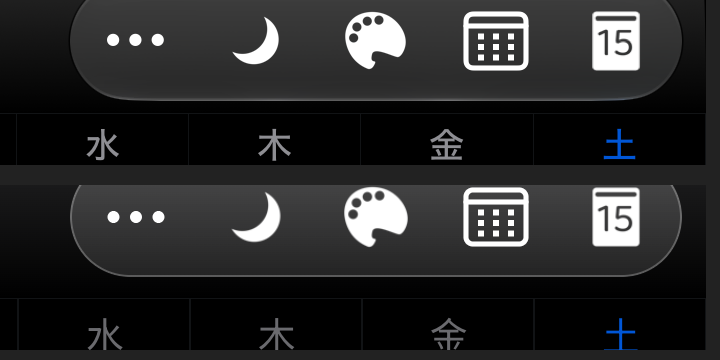
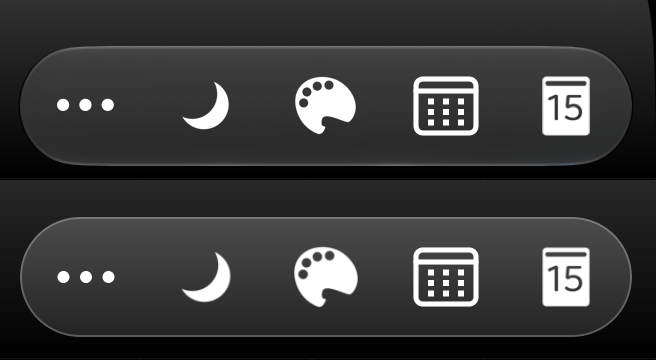
Update parity captures and document live toolbar blur

diff --git a/android-ios-comparison/index.html b/android-ios-comparison/index.html
@@ -1,1 +1,1 @@
-<!doctype html><html lang="ja"><meta charset="utf-8"><meta name="viewport" content="width=device-width,initial-scale=1"><title>iOS / Android 画面比較・作業中</title><style>body{font:16px system-ui;background:#e8e8e8;color:#222;max-width:1100px;margin:auto;padding:20px}.pair{display:flex;gap:16px}figure{margin:0;width:48%}img{width:100%;height:auto}section{margin-bottom:48px;border-top:1px solid #aaa}figcaption{padding:12px}.notice{padding:20px;background:#fff3cf;border-radius:12px}h2{font-size:22px}@media(max-width:600px){body{padding:10px}.pair{gap:6px}figcaption{padding:6px;font-size:13px}}</style><h1>iOS / Android 画面比較</h1><div class="notice">作業中・未完了。以前の資料のS06・S07には別画面が混ざっていました。該当画像を除外し、通常の画面遷移と画面固有の項目を確認して再撮影しました。画像が並ぶことは一致の証明ではありません。差異の実装と操作検証を継続しています。</div><p>2026-09-30 / iOS基準 2cd8426。画像をタップすると原寸を開きます。ローカルサーバーは使用しません。</p><section><h2>L03-save — 差異確認・修正中</h2><p>保存後の無効状態を撮影。共通18単位パス・線幅1.6・外形44に揃えました。背景と文字の差は継続確認。</p><div class="pair"><figure><figcaption>iOS 実画面</figcaption><a href="reference-ios-save59/8FB9BC8B-E6EF-4CA6-927A-5D8C493C1F6F.png"><img loading="lazy" src="reference-ios-save59/8FB9BC8B-E6EF-4CA6-927A-5D8C493C1F6F.png" alt="L03-save iOS 実画面"></a></figure><figure><figcaption>Android 修正中</figcaption><a href="iteration-58/android/L03-save.png"><img loading="lazy" src="iteration-58/android/L03-save.png" alt="L03-save Android 修正中"></a></figure></div></section><section><h2>L04-editor — 差異確認・修正中</h2><p>実際のイベント編集をプレビューに使用。iOSと同じ予定名を設定。モーダル内の余白などは検証中。</p><div class="pair"><figure><figcaption>iOS 実画面</figcaption><a href="reference-ios-gallery-complete/DC2E17E2-7C66-41A7-86CA-0893F56FCCF5.png"><img loading="lazy" src="reference-ios-gallery-complete/DC2E17E2-7C66-41A7-86CA-0893F56FCCF5.png" alt="L04-editor iOS 実画面"></a></figure><figure><figcaption>Android 修正中</figcaption><a href="iteration-60/android/L04-editor.png"><img loading="lazy" src="iteration-60/android/L04-editor.png" alt="L04-editor Android 修正中"></a></figure></div></section><section><h2>L04-drawer — 差異確認・修正中</h2><p>実際のルート画面をプレビューに使用。権限・ステータス表示の差あり。</p><div class="pair"><figure><figcaption>iOS 実画面</figcaption><a href="reference-ios-gallery-complete/345F08A9-8C00-4161-8A3B-997665505C88.png"><img loading="lazy" src="reference-ios-gallery-complete/345F08A9-8C00-4161-8A3B-997665505C88.png" alt="L04-drawer iOS 実画面"></a></figure><figure><figcaption>Android 修正中</figcaption><a href="iteration-60/android/L04-drawer.png"><img loading="lazy" src="iteration-60/android/L04-drawer.png" alt="L04-drawer Android 修正中"></a></figure></div></section><section><h2>L02-name — 差異確認・修正中</h2><p>画面の参照あり。見た目・操作の一致は検証継続中です。</p><div class="pair"><figure><figcaption>iOS 実画面</figcaption><a href="reference-ios-create-complete/5A9946B7-563B-4C65-B06F-087850030D1C.png"><img loading="lazy" src="reference-ios-create-complete/5A9946B7-563B-4C65-B06F-087850030D1C.png" alt="L02-name iOS 実画面"></a></figure><figure><figcaption>Android 修正中</figcaption><a href="iteration-58/android/L02-name.png"><img loading="lazy" src="iteration-58/android/L02-name.png" alt="L02-name Android 修正中"></a></figure></div></section><section><h2>S02-filled — 差異確認・修正中</h2><p>同じIrodoriを入力して再起動後の保持まで両OSで確認。余白の比較を継続。</p><div class="pair"><figure><figcaption>iOS 実画面</figcaption><a href="reference-ios-profile-filled/AF3456E5-132F-473E-8037-D850315C37AC.png"><img loading="lazy" src="reference-ios-profile-filled/AF3456E5-132F-473E-8037-D850315C37AC.png" alt="S02-filled iOS 実画面"></a></figure><figure><figcaption>Android 修正中</figcaption><a href="iteration-51/android/S02-filled.png"><img loading="lazy" src="iteration-51/android/S02-filled.png" alt="S02-filled Android 修正中"></a></figure></div></section><section><h2>L04-week — 差異確認・修正中</h2><p>同じサンプルで週表示を撮影。選択時刻や表示寸法の差を確認中。</p><div class="pair"><figure><figcaption>iOS 実画面</figcaption><a href="reference-ios-gallery-complete/156CF3BC-0DF3-4A36-BBDE-95F8732A51BA.png"><img loading="lazy" src="reference-ios-gallery-complete/156CF3BC-0DF3-4A36-BBDE-95F8732A51BA.png" alt="L04-week iOS 実画面"></a></figure><figure><figcaption>Android 修正中</figcaption><a href="iteration-60/android/L04-week.png"><img loading="lazy" src="iteration-60/android/L04-week.png" alt="L04-week Android 修正中"></a></figure></div></section><section><h2>L06-picker — 差異確認・修正中</h2><p>RGBA編集・タブ・保存色の保持と削除を確認。背景素材と色グリッドの差異は残っています。</p><div class="pair"><figure><figcaption>iOS 実画面</figcaption><a href="reference-ios-color-picker/99742BF1-0346-48B1-B677-E3847DA9B921.png"><img loading="lazy" src="reference-ios-color-picker/99742BF1-0346-48B1-B677-E3847DA9B921.png" alt="L06-picker iOS 実画面"></a></figure><figure><figcaption>Android 修正中</figcaption><a href="iteration-52/android/L06-picker.png"><img loading="lazy" src="iteration-52/android/L06-picker.png" alt="L06-picker Android 修正中"></a></figure></div></section><section><h2>L06-menu — 差異確認・修正中</h2><p>画面の参照あり。見た目・操作の一致は検証継続中です。</p><div class="pair"><figure><figcaption>iOS 実画面</figcaption><a href="reference-ios-color-picker/067381B5-0503-4259-9AA6-F5F8ACE20CFD.png"><img loading="lazy" src="reference-ios-color-picker/067381B5-0503-4259-9AA6-F5F8ACE20CFD.png" alt="L06-menu iOS 実画面"></a></figure><figure><figcaption>Android 修正中</figcaption><a href="iteration-58/android/L06-menu.png"><img loading="lazy" src="iteration-58/android/L06-menu.png" alt="L06-menu Android 修正中"></a></figure></div></section><section><h2>C01 — 差異確認・修正中</h2><p>右上の3点間隔とボタン群の左右2pt余白を修正。同倍率の拡大比較を下記に追加。</p><div class="pair"><figure><figcaption>iOS 実画面</figcaption><a href="reference-ios-validated-base/E7494986-EC92-43A1-976E-4A61E83EED48.png"><img loading="lazy" src="reference-ios-validated-base/E7494986-EC92-43A1-976E-4A61E83EED48.png" alt="C01 iOS 実画面"></a></figure><figure><figcaption>Android 修正中</figcaption><a href="iteration-58/android/C01.png"><img loading="lazy" src="iteration-58/android/C01.png" alt="C01 Android 修正中"></a></figure></div></section><section><h2>C02 — 差異確認・修正中</h2><p>画面の参照あり。見た目・操作の一致は検証継続中です。</p><div class="pair"><figure><figcaption>iOS 実画面</figcaption><a href="reference-ios-validated-base/B633D65A-37C7-4B26-A835-F9F67C199DAB.png"><img loading="lazy" src="reference-ios-validated-base/B633D65A-37C7-4B26-A835-F9F67C199DAB.png" alt="C02 iOS 実画面"></a></figure><figure><figcaption>Android 修正中</figcaption><a href="iteration-58/android/C02.png"><img loading="lazy" src="iteration-58/android/C02.png" alt="C02 Android 修正中"></a></figure></div></section><section><h2>C03 — 差異確認・修正中</h2><p>共有画像以外のアイコンはAndroid自作ベクターで、iOSと同一ではありません。線幅・配置・半円・調整記号を再修正。手・パレットなどの差異は未解消。</p><div class="pair"><figure><figcaption>iOS 実画面</figcaption><a href="reference-ios-menu/AEAD1331-6A1B-4B11-BE75-A2A32DCE4736.png"><img loading="lazy" src="reference-ios-menu/AEAD1331-6A1B-4B11-BE75-A2A32DCE4736.png" alt="C03 iOS 実画面"></a></figure><figure><figcaption>Android 修正中</figcaption><a href="iteration-60/android/C03.png"><img loading="lazy" src="iteration-60/android/C03.png" alt="C03 Android 修正中"></a></figure></div></section><section><h2>C04 — 比較未成立</h2><p>画面・状態を確認したiOS参照を準備中です。一致・対応済みとは判定していません。</p></section><section><h2>E01 — 差異確認・修正中</h2><p>画面の参照あり。見た目・操作の一致は検証継続中です。</p><div class="pair"><figure><figcaption>iOS 実画面</figcaption><a href="reference-ios-menu/F1B74FBF-4080-4008-85C0-B5E44A741A5E.png"><img loading="lazy" src="reference-ios-menu/F1B74FBF-4080-4008-85C0-B5E44A741A5E.png" alt="E01 iOS 実画面"></a></figure><figure><figcaption>Android 修正中</figcaption><a href="iteration-20/android/E01.png"><img loading="lazy" src="iteration-20/android/E01.png" alt="E01 Android 修正中"></a></figure></div></section><section><h2>E02 — 比較未成立</h2><p>画面・状態を確認したiOS参照を準備中です。一致・対応済みとは判定していません。</p></section><section><h2>S01 — 差異確認・修正中</h2><p>画面の参照あり。見た目・操作の一致は検証継続中です。</p><div class="pair"><figure><figcaption>iOS 実画面</figcaption><a href="reference-ios-validated-base/28C18C3E-C1D9-4E80-BF0F-89C1EBF0808E.png"><img loading="lazy" src="reference-ios-validated-base/28C18C3E-C1D9-4E80-BF0F-89C1EBF0808E.png" alt="S01 iOS 実画面"></a></figure><figure><figcaption>Android 修正中</figcaption><a href="iteration-20/android/S01.png"><img loading="lazy" src="iteration-20/android/S01.png" alt="S01 Android 修正中"></a></figure></div></section><section><h2>S02 — 差異確認・修正中</h2><p>入力欄・アイコン・間隔を修正。名前入力と再起動の操作確認を継続。</p><div class="pair"><figure><figcaption>iOS 実画面</figcaption><a href="reference-ios-validated-root/8248BD4A-939D-41C1-8445-692C9D6D066E.png"><img loading="lazy" src="reference-ios-validated-root/8248BD4A-939D-41C1-8445-692C9D6D066E.png" alt="S02 iOS 実画面"></a></figure><figure><figcaption>Android 修正中</figcaption><a href="iteration-20/android/S02.png"><img loading="lazy" src="iteration-20/android/S02.png" alt="S02 Android 修正中"></a></figure></div></section><section><h2>S03 — 差異確認・修正中</h2><p>画面の参照あり。見た目・操作の一致は検証継続中です。</p><div class="pair"><figure><figcaption>iOS 実画面</figcaption><a href="reference-ios-validated-root/C33BB4E4-EA7C-4CB1-8DD1-9D264D5FC420.png"><img loading="lazy" src="reference-ios-validated-root/C33BB4E4-EA7C-4CB1-8DD1-9D264D5FC420.png" alt="S03 iOS 実画面"></a></figure><figure><figcaption>Android 修正中</figcaption><a href="iteration-20/android/S03.png"><img loading="lazy" src="iteration-20/android/S03.png" alt="S03 Android 修正中"></a></figure></div></section><section><h2>S04 — 差異確認・修正中</h2><p>画面の参照あり。見た目・操作の一致は検証継続中です。</p><div class="pair"><figure><figcaption>iOS 実画面</figcaption><a href="reference-ios-validated-base/C49E4318-6B74-4E78-83A2-F7DE32502782.png"><img loading="lazy" src="reference-ios-validated-base/C49E4318-6B74-4E78-83A2-F7DE32502782.png" alt="S04 iOS 実画面"></a></figure><figure><figcaption>Android 修正中</figcaption><a href="iteration-20/android/S04.png"><img loading="lazy" src="iteration-20/android/S04.png" alt="S04 Android 修正中"></a></figure></div></section><section><h2>S05 — 差異確認・修正中</h2><p>画面の参照あり。見た目・操作の一致は検証継続中です。</p><div class="pair"><figure><figcaption>iOS 実画面</figcaption><a href="reference-ios-validated-settings/6D4022FE-2148-4CD7-A949-D66A906A8E15.png"><img loading="lazy" src="reference-ios-validated-settings/6D4022FE-2148-4CD7-A949-D66A906A8E15.png" alt="S05 iOS 実画面"></a></figure><figure><figcaption>Android 修正中</figcaption><a href="iteration-20/android/S05.png"><img loading="lazy" src="iteration-20/android/S05.png" alt="S05 Android 修正中"></a></figure></div></section><section><h2>S06 — 差異確認・修正中</h2><p>再撮影済み。Androidとカレンダーデータを揃える作業中。</p><div class="pair"><figure><figcaption>iOS 実画面</figcaption><a href="reference-ios-validated-settings/0BD6867A-0492-488D-B559-B6024141E5F3.png"><img loading="lazy" src="reference-ios-validated-settings/0BD6867A-0492-488D-B559-B6024141E5F3.png" alt="S06 iOS 実画面"></a></figure><figure><figcaption>Android 修正中</figcaption><a href="iteration-20/android/S06.png"><img loading="lazy" src="iteration-20/android/S06.png" alt="S06 Android 修正中"></a></figure></div></section><section><h2>S07 — 差異確認・修正中</h2><p>旧iOS参照は別画面のため無効。正しい詳細画面を再撮影済み。</p><div class="pair"><figure><figcaption>iOS 実画面</figcaption><a href="reference-ios-validated-settings/28F4C5D5-C586-423F-B24D-97EAF4D2C998.png"><img loading="lazy" src="reference-ios-validated-settings/28F4C5D5-C586-423F-B24D-97EAF4D2C998.png" alt="S07 iOS 実画面"></a></figure><figure><figcaption>Android 修正中</figcaption><a href="iteration-17/android/S07.png"><img loading="lazy" src="iteration-17/android/S07.png" alt="S07 Android 修正中"></a></figure></div></section><section><h2>S08 — 差異確認・修正中</h2><p>Androidの作成先は端末内カレンダー。入力・確認UIを修正中。</p><div class="pair"><figure><figcaption>iOS 実画面</figcaption><a href="reference-ios-validated-settings/FF59A480-3FA9-425D-9909-80669B5170ED.png"><img loading="lazy" src="reference-ios-validated-settings/FF59A480-3FA9-425D-9909-80669B5170ED.png" alt="S08 iOS 実画面"></a></figure><figure><figcaption>Android 修正中</figcaption><a href="iteration-20/android/S08.png"><img loading="lazy" src="iteration-20/android/S08.png" alt="S08 Android 修正中"></a></figure></div></section><section><h2>S09 — 差異確認・修正中</h2><p>再撮影済み。切替順UI・ドラッグの実装と比較を継続。</p><div class="pair"><figure><figcaption>iOS 実画面</figcaption><a href="reference-ios-validated-root/B51CD87D-065F-4FE9-B5D6-D6E6A410E6B8.png"><img loading="lazy" src="reference-ios-validated-root/B51CD87D-065F-4FE9-B5D6-D6E6A410E6B8.png" alt="S09 iOS 実画面"></a></figure><figure><figcaption>Android 修正中</figcaption><a href="iteration-20/android/S09.png"><img loading="lazy" src="iteration-20/android/S09.png" alt="S09 Android 修正中"></a></figure></div></section><section><h2>S10 — 差異確認・修正中</h2><p>再撮影済み。依存ライブラリはOSで異なる。ライセンス本文画面は未照合。</p><div class="pair"><figure><figcaption>iOS 実画面</figcaption><a href="reference-ios-validated-root/1A34D11C-4051-4E84-A1AC-EEBBFE2F837C.png"><img loading="lazy" src="reference-ios-validated-root/1A34D11C-4051-4E84-A1AC-EEBBFE2F837C.png" alt="S10 iOS 実画面"></a></figure><figure><figcaption>Android 修正中</figcaption><a href="iteration-20/android/S10.png"><img loading="lazy" src="iteration-20/android/S10.png" alt="S10 Android 修正中"></a></figure></div></section><section><h2>S11 — 比較未成立</h2><p>画面・状態を確認したiOS参照を準備中です。一致・対応済みとは判定していません。</p></section><section><h2>S12 — 差異確認・修正中</h2><p>再撮影済み。全幅表示へ修正。余白と遷移を検証中。</p><div class="pair"><figure><figcaption>iOS 実画面</figcaption><a href="reference-ios-validated-root/051B5BD8-42BE-4F89-BCFE-08F84D3B0BEB.png"><img loading="lazy" src="reference-ios-validated-root/051B5BD8-42BE-4F89-BCFE-08F84D3B0BEB.png" alt="S12 iOS 実画面"></a></figure><figure><figcaption>Android 修正中</figcaption><a href="iteration-20/android/S12.png"><img loading="lazy" src="iteration-20/android/S12.png" alt="S12 Android 修正中"></a></figure></div></section><section><h2>L01 — 差異確認・修正中</h2><p>画面の参照あり。見た目・操作の一致は検証継続中です。</p><div class="pair"><figure><figcaption>iOS 実画面</figcaption><a href="reference-ios-catalog63/93FEBB65-CF72-49F9-808F-B3402CC4A88F.png"><img loading="lazy" src="reference-ios-catalog63/93FEBB65-CF72-49F9-808F-B3402CC4A88F.png" alt="L01 iOS 実画面"></a></figure><figure><figcaption>Android 修正中</figcaption><a href="iteration-65/android/L01.png"><img loading="lazy" src="iteration-65/android/L01.png" alt="L01 Android 修正中"></a></figure></div></section><section><h2>L02 — 差異確認・修正中</h2><p>新規作成を設定・プレビュー・名前・作成の順へ変更。実操作で作成後の保存エディタ移行を確認。</p><div class="pair"><figure><figcaption>iOS 実画面</figcaption><a href="reference-ios-create-complete/D7896DA2-05A0-4FF6-9F51-9D6A1F669D60.png"><img loading="lazy" src="reference-ios-create-complete/D7896DA2-05A0-4FF6-9F51-9D6A1F669D60.png" alt="L02 iOS 実画面"></a></figure><figure><figcaption>Android 修正中</figcaption><a href="iteration-58/android/L02.png"><img loading="lazy" src="iteration-58/android/L02.png" alt="L02 Android 修正中"></a></figure></div></section><section><h2>L03 — 差異確認・修正中</h2><p>画面の参照あり。見た目・操作の一致は検証継続中です。</p><div class="pair"><figure><figcaption>iOS 実画面</figcaption><a href="reference-ios-layout/734B3630-D23E-43AE-9F06-0D9DD6C88AA1.png"><img loading="lazy" src="reference-ios-layout/734B3630-D23E-43AE-9F06-0D9DD6C88AA1.png" alt="L03 iOS 実画面"></a></figure><figure><figcaption>Android 修正中</figcaption><a href="iteration-12/android/L03.png"><img loading="lazy" src="iteration-12/android/L03.png" alt="L03 Android 修正中"></a></figure></div></section><section><h2>L04 — 差異確認・修正中</h2><p>同じトランジションサンプルで再撮影。4ページの横スワイプを確認。余白・ステータス表示は差が残っています。</p><div class="pair"><figure><figcaption>iOS 実画面</figcaption><a href="reference-ios-gallery-complete/6A556226-838C-4247-BFC6-6CE07F647084.png"><img loading="lazy" src="reference-ios-gallery-complete/6A556226-838C-4247-BFC6-6CE07F647084.png" alt="L04 iOS 実画面"></a></figure><figure><figcaption>Android 修正中</figcaption><a href="iteration-60/android/L04.png"><img loading="lazy" src="iteration-60/android/L04.png" alt="L04 Android 修正中"></a></figure></div></section><section><h2>L05 — 差異確認・修正中</h2><p>画面の参照あり。見た目・操作の一致は検証継続中です。</p><div class="pair"><figure><figcaption>iOS 実画面</figcaption><a href="reference-ios-layout/F84DC1DC-4BF5-4682-AF2F-55D18E9CEBA4.png"><img loading="lazy" src="reference-ios-layout/F84DC1DC-4BF5-4682-AF2F-55D18E9CEBA4.png" alt="L05 iOS 実画面"></a></figure><figure><figcaption>Android 修正中</figcaption><a href="iteration-12/android/L05.png"><img loading="lazy" src="iteration-12/android/L05.png" alt="L05 Android 修正中"></a></figure></div></section><section><h2>L06 — 差異確認・修正中</h2><p>画面の参照あり。見た目・操作の一致は検証継続中です。</p><div class="pair"><figure><figcaption>iOS 実画面</figcaption><a href="reference-ios-color-picker/E1C9AAF8-4C40-443D-BDA3-351968089142.png"><img loading="lazy" src="reference-ios-color-picker/E1C9AAF8-4C40-443D-BDA3-351968089142.png" alt="L06 iOS 実画面"></a></figure><figure><figcaption>Android 修正中</figcaption><a href="iteration-58/android/L06.png"><img loading="lazy" src="iteration-58/android/L06.png" alt="L06 Android 修正中"></a></figure></div></section><section><h2>L07 — 差異確認・修正中</h2><p>画面の参照あり。見た目・操作の一致は検証継続中です。</p><div class="pair"><figure><figcaption>iOS 実画面</figcaption><a href="reference-ios-layout/8F089573-D2B9-4F90-BCEF-507507195352.png"><img loading="lazy" src="reference-ios-layout/8F089573-D2B9-4F90-BCEF-507507195352.png" alt="L07 iOS 実画面"></a></figure><figure><figcaption>Android 修正中</figcaption><a href="iteration-12/android/L07.png"><img loading="lazy" src="iteration-12/android/L07.png" alt="L07 Android 修正中"></a></figure></div></section><section><h2>I01 — 差異確認・修正中</h2><p>画面の参照あり。見た目・操作の一致は検証継続中です。</p><div class="pair"><figure><figcaption>iOS 実画面</figcaption><a href="reference-ios-layout/14E70FF7-A801-4730-B8D4-47193CA5B8F8.png"><img loading="lazy" src="reference-ios-layout/14E70FF7-A801-4730-B8D4-47193CA5B8F8.png" alt="I01 iOS 実画面"></a></figure><figure><figcaption>Android 修正中</figcaption><a href="iteration-12/android/I01.png"><img loading="lazy" src="iteration-12/android/I01.png" alt="I01 Android 修正中"></a></figure></div></section><section><h2>I02 — 差異確認・修正中</h2><p>画面の参照あり。見た目・操作の一致は検証継続中です。</p><div class="pair"><figure><figcaption>iOS 実画面</figcaption><a href="reference-ios-list/70B33A24-A254-4538-9E49-86DC48DC940E.png"><img loading="lazy" src="reference-ios-list/70B33A24-A254-4538-9E49-86DC48DC940E.png" alt="I02 iOS 実画面"></a></figure><figure><figcaption>Android 修正中</figcaption><a href="iteration-12/android/I02.png"><img loading="lazy" src="iteration-12/android/I02.png" alt="I02 Android 修正中"></a></figure></div></section><section><h2>I03 — 差異確認・修正中</h2><p>画面の参照あり。見た目・操作の一致は検証継続中です。</p><div class="pair"><figure><figcaption>iOS 実画面</figcaption><a href="reference-ios-list/7D199B90-9351-4AAD-9F41-23308968D58E.png"><img loading="lazy" src="reference-ios-list/7D199B90-9351-4AAD-9F41-23308968D58E.png" alt="I03 iOS 実画面"></a></figure><figure><figcaption>Android 修正中</figcaption><a href="iteration-12/android/I03.png"><img loading="lazy" src="iteration-12/android/I03.png" alt="I03 Android 修正中"></a></figure></div></section><section><h2>I04 — 差異確認・修正中</h2><p>画面の参照あり。見た目・操作の一致は検証継続中です。</p><div class="pair"><figure><figcaption>iOS 実画面</figcaption><a href="reference-ios-list/272D0FDE-C62C-4BA6-B449-F864126E1B69.png"><img loading="lazy" src="reference-ios-list/272D0FDE-C62C-4BA6-B449-F864126E1B69.png" alt="I04 iOS 実画面"></a></figure><figure><figcaption>Android 修正中</figcaption><a href="iteration-12/android/I04.png"><img loading="lazy" src="iteration-12/android/I04.png" alt="I04 Android 修正中"></a></figure></div></section><section><h2>I05 — 比較未成立</h2><p>画面・状態を確認したiOS参照を準備中です。一致・対応済みとは判定していません。</p></section><section><h2>アイコン拡大比較</h2><p>各画像の上段がiOS、下段がAndroid。同じ1206px幅のキャプチャーから同じ範囲を切り出し。背景素材の差は未解消です。</p><img src="icon-details/ellipsis.png" alt="右上3点の比較"><img src="icon-details/save.png" alt="保存ボタンの比較"></section></html>
+<!doctype html><html lang="ja"><meta charset="utf-8"><meta name="viewport" content="width=device-width,initial-scale=1"><title>iOS / Android 画面比較・作業中</title><style>body{font:16px system-ui;background:#e8e8e8;color:#222;max-width:1100px;margin:auto;padding:20px}.pair{display:flex;gap:16px}figure{margin:0;width:48%}img{width:100%;height:auto}section{margin-bottom:48px;border-top:1px solid #aaa}figcaption{padding:12px}.notice{padding:20px;background:#fff3cf;border-radius:12px}h2{font-size:22px}@media(max-width:600px){body{padding:10px}.pair{gap:6px}figcaption{padding:6px;font-size:13px}}</style><h1>iOS / Android 画面比較</h1><div class="notice">作業中・未完了。以前の資料のS06・S07には別画面が混ざっていました。該当画像を除外し、通常の画面遷移と画面固有の項目を確認して再撮影しました。画像が並ぶことは一致の証明ではありません。差異の実装と操作検証を継続しています。</div><p>2026-09-30 / iOS基準 2cd8426。画像をタップすると原寸を開きます。ローカルサーバーは使用しません。</p><section><h2>C04-menu — 差異確認・修正中</h2><p>幅224・行高48・アイコン22・間隔14とキャンセル行を反映。メニュー行からのドラッグは未対応、背景素材も差が残る。</p><div class="pair"><figure><figcaption>iOS 実画面</figcaption><a href="reference-ios-event70/7744FB51-8D34-4FBC-8FF2-E82A3FC3935C.png"><img loading="lazy" src="reference-ios-event70/7744FB51-8D34-4FBC-8FF2-E82A3FC3935C.png" alt="C04-menu iOS 実画面"></a></figure><figure><figcaption>Android 修正中</figcaption><a href="iteration-77/android/C04-menu.png"><img loading="lazy" src="iteration-77/android/C04-menu.png" alt="C04-menu Android 修正中"></a></figure></div></section><section><h2>L03-save — 差異確認・修正中</h2><p>保存後の無効状態を撮影。共通18単位パス・線幅1.6・外形44に揃えました。背景と文字の差は継続確認。</p><div class="pair"><figure><figcaption>iOS 実画面</figcaption><a href="reference-ios-save59/8FB9BC8B-E6EF-4CA6-927A-5D8C493C1F6F.png"><img loading="lazy" src="reference-ios-save59/8FB9BC8B-E6EF-4CA6-927A-5D8C493C1F6F.png" alt="L03-save iOS 実画面"></a></figure><figure><figcaption>Android 修正中</figcaption><a href="iteration-74/android/L03-save.png"><img loading="lazy" src="iteration-74/android/L03-save.png" alt="L03-save Android 修正中"></a></figure></div></section><section><h2>L04-editor — 差異確認・修正中</h2><p>実際のイベント編集をプレビューに使用。iOSと同じ予定名を設定。モーダル内の余白などは検証中。</p><div class="pair"><figure><figcaption>iOS 実画面</figcaption><a href="reference-ios-gallery-complete/DC2E17E2-7C66-41A7-86CA-0893F56FCCF5.png"><img loading="lazy" src="reference-ios-gallery-complete/DC2E17E2-7C66-41A7-86CA-0893F56FCCF5.png" alt="L04-editor iOS 実画面"></a></figure><figure><figcaption>Android 修正中</figcaption><a href="iteration-60/android/L04-editor.png"><img loading="lazy" src="iteration-60/android/L04-editor.png" alt="L04-editor Android 修正中"></a></figure></div></section><section><h2>L04-drawer — 差異確認・修正中</h2><p>実際のルート画面をプレビューに使用。権限・ステータス表示の差あり。</p><div class="pair"><figure><figcaption>iOS 実画面</figcaption><a href="reference-ios-gallery-complete/345F08A9-8C00-4161-8A3B-997665505C88.png"><img loading="lazy" src="reference-ios-gallery-complete/345F08A9-8C00-4161-8A3B-997665505C88.png" alt="L04-drawer iOS 実画面"></a></figure><figure><figcaption>Android 修正中</figcaption><a href="iteration-60/android/L04-drawer.png"><img loading="lazy" src="iteration-60/android/L04-drawer.png" alt="L04-drawer Android 修正中"></a></figure></div></section><section><h2>L02-name — 差異確認・修正中</h2><p>画面の参照あり。見た目・操作の一致は検証継続中です。</p><div class="pair"><figure><figcaption>iOS 実画面</figcaption><a href="reference-ios-create-complete/5A9946B7-563B-4C65-B06F-087850030D1C.png"><img loading="lazy" src="reference-ios-create-complete/5A9946B7-563B-4C65-B06F-087850030D1C.png" alt="L02-name iOS 実画面"></a></figure><figure><figcaption>Android 修正中</figcaption><a href="iteration-74/android/L02-name.png"><img loading="lazy" src="iteration-74/android/L02-name.png" alt="L02-name Android 修正中"></a></figure></div></section><section><h2>S02-filled — 差異確認・修正中</h2><p>同じIrodoriを入力して再起動後の保持まで両OSで確認。余白の比較を継続。</p><div class="pair"><figure><figcaption>iOS 実画面</figcaption><a href="reference-ios-profile-filled/AF3456E5-132F-473E-8037-D850315C37AC.png"><img loading="lazy" src="reference-ios-profile-filled/AF3456E5-132F-473E-8037-D850315C37AC.png" alt="S02-filled iOS 実画面"></a></figure><figure><figcaption>Android 修正中</figcaption><a href="iteration-51/android/S02-filled.png"><img loading="lazy" src="iteration-51/android/S02-filled.png" alt="S02-filled Android 修正中"></a></figure></div></section><section><h2>L04-week — 差異確認・修正中</h2><p>同じサンプルで週表示を撮影。選択時刻や表示寸法の差を確認中。</p><div class="pair"><figure><figcaption>iOS 実画面</figcaption><a href="reference-ios-gallery-complete/156CF3BC-0DF3-4A36-BBDE-95F8732A51BA.png"><img loading="lazy" src="reference-ios-gallery-complete/156CF3BC-0DF3-4A36-BBDE-95F8732A51BA.png" alt="L04-week iOS 実画面"></a></figure><figure><figcaption>Android 修正中</figcaption><a href="iteration-60/android/L04-week.png"><img loading="lazy" src="iteration-60/android/L04-week.png" alt="L04-week Android 修正中"></a></figure></div></section><section><h2>L06-picker — 差異確認・修正中</h2><p>RGBA編集・タブ・保存色の保持と削除を確認。背景素材と色グリッドの差異は残っています。</p><div class="pair"><figure><figcaption>iOS 実画面</figcaption><a href="reference-ios-color-picker/99742BF1-0346-48B1-B677-E3847DA9B921.png"><img loading="lazy" src="reference-ios-color-picker/99742BF1-0346-48B1-B677-E3847DA9B921.png" alt="L06-picker iOS 実画面"></a></figure><figure><figcaption>Android 修正中</figcaption><a href="iteration-52/android/L06-picker.png"><img loading="lazy" src="iteration-52/android/L06-picker.png" alt="L06-picker Android 修正中"></a></figure></div></section><section><h2>L06-menu — 差異確認・修正中</h2><p>画面の参照あり。見た目・操作の一致は検証継続中です。</p><div class="pair"><figure><figcaption>iOS 実画面</figcaption><a href="reference-ios-color-picker/067381B5-0503-4259-9AA6-F5F8ACE20CFD.png"><img loading="lazy" src="reference-ios-color-picker/067381B5-0503-4259-9AA6-F5F8ACE20CFD.png" alt="L06-menu iOS 実画面"></a></figure><figure><figcaption>Android 修正中</figcaption><a href="iteration-58/android/L06-menu.png"><img loading="lazy" src="iteration-58/android/L06-menu.png" alt="L06-menu Android 修正中"></a></figure></div></section><section><h2>C01 — 差異確認・修正中</h2><p>右上の3点間隔とボタン群の左右2pt余白を修正。固定メニューは背後のライブ描画をぼかす方式へ変更。Appleのガラス素材との完全一致は未達。</p><div class="pair"><figure><figcaption>iOS 実画面</figcaption><a href="reference-ios-validated-base/E7494986-EC92-43A1-976E-4A61E83EED48.png"><img loading="lazy" src="reference-ios-validated-base/E7494986-EC92-43A1-976E-4A61E83EED48.png" alt="C01 iOS 実画面"></a></figure><figure><figcaption>Android 修正中</figcaption><a href="iteration-77/android/C01.png"><img loading="lazy" src="iteration-77/android/C01.png" alt="C01 Android 修正中"></a></figure></div></section><section><h2>C02 — 差異確認・修正中</h2><p>画面の参照あり。見た目・操作の一致は検証継続中です。</p><div class="pair"><figure><figcaption>iOS 実画面</figcaption><a href="reference-ios-validated-base/B633D65A-37C7-4B26-A835-F9F67C199DAB.png"><img loading="lazy" src="reference-ios-validated-base/B633D65A-37C7-4B26-A835-F9F67C199DAB.png" alt="C02 iOS 実画面"></a></figure><figure><figcaption>Android 修正中</figcaption><a href="iteration-77/android/C02.png"><img loading="lazy" src="iteration-77/android/C02.png" alt="C02 Android 修正中"></a></figure></div></section><section><h2>C03 — 差異確認・修正中</h2><p>共有画像以外のアイコンはAndroid自作ベクターで、iOSと同一ではありません。線幅・配置・半円・調整記号を再修正。手・パレットなどの差異は未解消。</p><div class="pair"><figure><figcaption>iOS 実画面</figcaption><a href="reference-ios-menu/AEAD1331-6A1B-4B11-BE75-A2A32DCE4736.png"><img loading="lazy" src="reference-ios-menu/AEAD1331-6A1B-4B11-BE75-A2A32DCE4736.png" alt="C03 iOS 実画面"></a></figure><figure><figcaption>Android 修正中</figcaption><a href="iteration-77/android/C03.png"><img loading="lazy" src="iteration-77/android/C03.png" alt="C03 Android 修正中"></a></figure></div></section><section><h2>C04 — 差異確認・修正中</h2><p>同じ複数日イベント・9月28日〜30日で再撮影。カレンダーごとの色を一覧の線へ反映。メニュー行からのドラッグは未対応。</p><div class="pair"><figure><figcaption>iOS 実画面</figcaption><a href="reference-ios-event70/720AE4D4-8DAB-44B7-9975-2A1B754B25CF.png"><img loading="lazy" src="reference-ios-event70/720AE4D4-8DAB-44B7-9975-2A1B754B25CF.png" alt="C04 iOS 実画面"></a></figure><figure><figcaption>Android 修正中</figcaption><a href="iteration-77/android/C04.png"><img loading="lazy" src="iteration-77/android/C04.png" alt="C04 Android 修正中"></a></figure></div></section><section><h2>E01 — 差異確認・修正中</h2><p>画面の参照あり。見た目・操作の一致は検証継続中です。</p><div class="pair"><figure><figcaption>iOS 実画面</figcaption><a href="reference-ios-menu/F1B74FBF-4080-4008-85C0-B5E44A741A5E.png"><img loading="lazy" src="reference-ios-menu/F1B74FBF-4080-4008-85C0-B5E44A741A5E.png" alt="E01 iOS 実画面"></a></figure><figure><figcaption>Android 修正中</figcaption><a href="iteration-20/android/E01.png"><img loading="lazy" src="iteration-20/android/E01.png" alt="E01 Android 修正中"></a></figure></div></section><section><h2>E02 — 比較未成立</h2><p>画面・状態を確認したiOS参照を準備中です。一致・対応済みとは判定していません。</p></section><section><h2>S01 — 差異確認・修正中</h2><p>画面の参照あり。見た目・操作の一致は検証継続中です。</p><div class="pair"><figure><figcaption>iOS 実画面</figcaption><a href="reference-ios-validated-base/28C18C3E-C1D9-4E80-BF0F-89C1EBF0808E.png"><img loading="lazy" src="reference-ios-validated-base/28C18C3E-C1D9-4E80-BF0F-89C1EBF0808E.png" alt="S01 iOS 実画面"></a></figure><figure><figcaption>Android 修正中</figcaption><a href="iteration-20/android/S01.png"><img loading="lazy" src="iteration-20/android/S01.png" alt="S01 Android 修正中"></a></figure></div></section><section><h2>S02 — 差異確認・修正中</h2><p>入力欄・アイコン・間隔を修正。名前入力と再起動の操作確認を継続。</p><div class="pair"><figure><figcaption>iOS 実画面</figcaption><a href="reference-ios-validated-root/8248BD4A-939D-41C1-8445-692C9D6D066E.png"><img loading="lazy" src="reference-ios-validated-root/8248BD4A-939D-41C1-8445-692C9D6D066E.png" alt="S02 iOS 実画面"></a></figure><figure><figcaption>Android 修正中</figcaption><a href="iteration-20/android/S02.png"><img loading="lazy" src="iteration-20/android/S02.png" alt="S02 Android 修正中"></a></figure></div></section><section><h2>S03 — 差異確認・修正中</h2><p>画面の参照あり。見た目・操作の一致は検証継続中です。</p><div class="pair"><figure><figcaption>iOS 実画面</figcaption><a href="reference-ios-validated-root/C33BB4E4-EA7C-4CB1-8DD1-9D264D5FC420.png"><img loading="lazy" src="reference-ios-validated-root/C33BB4E4-EA7C-4CB1-8DD1-9D264D5FC420.png" alt="S03 iOS 実画面"></a></figure><figure><figcaption>Android 修正中</figcaption><a href="iteration-20/android/S03.png"><img loading="lazy" src="iteration-20/android/S03.png" alt="S03 Android 修正中"></a></figure></div></section><section><h2>S04 — 差異確認・修正中</h2><p>画面の参照あり。見た目・操作の一致は検証継続中です。</p><div class="pair"><figure><figcaption>iOS 実画面</figcaption><a href="reference-ios-validated-base/C49E4318-6B74-4E78-83A2-F7DE32502782.png"><img loading="lazy" src="reference-ios-validated-base/C49E4318-6B74-4E78-83A2-F7DE32502782.png" alt="S04 iOS 実画面"></a></figure><figure><figcaption>Android 修正中</figcaption><a href="iteration-20/android/S04.png"><img loading="lazy" src="iteration-20/android/S04.png" alt="S04 Android 修正中"></a></figure></div></section><section><h2>S05 — 差異確認・修正中</h2><p>画面の参照あり。見た目・操作の一致は検証継続中です。</p><div class="pair"><figure><figcaption>iOS 実画面</figcaption><a href="reference-ios-validated-settings/6D4022FE-2148-4CD7-A949-D66A906A8E15.png"><img loading="lazy" src="reference-ios-validated-settings/6D4022FE-2148-4CD7-A949-D66A906A8E15.png" alt="S05 iOS 実画面"></a></figure><figure><figcaption>Android 修正中</figcaption><a href="iteration-20/android/S05.png"><img loading="lazy" src="iteration-20/android/S05.png" alt="S05 Android 修正中"></a></figure></div></section><section><h2>S06 — 差異確認・修正中</h2><p>再撮影済み。Androidとカレンダーデータを揃える作業中。</p><div class="pair"><figure><figcaption>iOS 実画面</figcaption><a href="reference-ios-validated-settings/0BD6867A-0492-488D-B559-B6024141E5F3.png"><img loading="lazy" src="reference-ios-validated-settings/0BD6867A-0492-488D-B559-B6024141E5F3.png" alt="S06 iOS 実画面"></a></figure><figure><figcaption>Android 修正中</figcaption><a href="iteration-20/android/S06.png"><img loading="lazy" src="iteration-20/android/S06.png" alt="S06 Android 修正中"></a></figure></div></section><section><h2>S07 — 差異確認・修正中</h2><p>旧iOS参照は別画面のため無効。正しい詳細画面を再撮影済み。</p><div class="pair"><figure><figcaption>iOS 実画面</figcaption><a href="reference-ios-validated-settings/28F4C5D5-C586-423F-B24D-97EAF4D2C998.png"><img loading="lazy" src="reference-ios-validated-settings/28F4C5D5-C586-423F-B24D-97EAF4D2C998.png" alt="S07 iOS 実画面"></a></figure><figure><figcaption>Android 修正中</figcaption><a href="iteration-17/android/S07.png"><img loading="lazy" src="iteration-17/android/S07.png" alt="S07 Android 修正中"></a></figure></div></section><section><h2>S08 — 差異確認・修正中</h2><p>Androidの作成先は端末内カレンダー。入力・確認UIを修正中。</p><div class="pair"><figure><figcaption>iOS 実画面</figcaption><a href="reference-ios-validated-settings/FF59A480-3FA9-425D-9909-80669B5170ED.png"><img loading="lazy" src="reference-ios-validated-settings/FF59A480-3FA9-425D-9909-80669B5170ED.png" alt="S08 iOS 実画面"></a></figure><figure><figcaption>Android 修正中</figcaption><a href="iteration-20/android/S08.png"><img loading="lazy" src="iteration-20/android/S08.png" alt="S08 Android 修正中"></a></figure></div></section><section><h2>S09 — 差異確認・修正中</h2><p>再撮影済み。切替順UI・ドラッグの実装と比較を継続。</p><div class="pair"><figure><figcaption>iOS 実画面</figcaption><a href="reference-ios-validated-root/B51CD87D-065F-4FE9-B5D6-D6E6A410E6B8.png"><img loading="lazy" src="reference-ios-validated-root/B51CD87D-065F-4FE9-B5D6-D6E6A410E6B8.png" alt="S09 iOS 実画面"></a></figure><figure><figcaption>Android 修正中</figcaption><a href="iteration-20/android/S09.png"><img loading="lazy" src="iteration-20/android/S09.png" alt="S09 Android 修正中"></a></figure></div></section><section><h2>S10 — 差異確認・修正中</h2><p>再撮影済み。依存ライブラリはOSで異なる。ライセンス本文画面は未照合。</p><div class="pair"><figure><figcaption>iOS 実画面</figcaption><a href="reference-ios-validated-root/1A34D11C-4051-4E84-A1AC-EEBBFE2F837C.png"><img loading="lazy" src="reference-ios-validated-root/1A34D11C-4051-4E84-A1AC-EEBBFE2F837C.png" alt="S10 iOS 実画面"></a></figure><figure><figcaption>Android 修正中</figcaption><a href="iteration-20/android/S10.png"><img loading="lazy" src="iteration-20/android/S10.png" alt="S10 Android 修正中"></a></figure></div></section><section><h2>S11 — 比較未成立</h2><p>画面・状態を確認したiOS参照を準備中です。一致・対応済みとは判定していません。</p></section><section><h2>S12 — 差異確認・修正中</h2><p>再撮影済み。全幅表示へ修正。余白と遷移を検証中。</p><div class="pair"><figure><figcaption>iOS 実画面</figcaption><a href="reference-ios-validated-root/051B5BD8-42BE-4F89-BCFE-08F84D3B0BEB.png"><img loading="lazy" src="reference-ios-validated-root/051B5BD8-42BE-4F89-BCFE-08F84D3B0BEB.png" alt="S12 iOS 実画面"></a></figure><figure><figcaption>Android 修正中</figcaption><a href="iteration-20/android/S12.png"><img loading="lazy" src="iteration-20/android/S12.png" alt="S12 Android 修正中"></a></figure></div></section><section><h2>L01 — 差異確認・修正中</h2><p>画面の参照あり。見た目・操作の一致は検証継続中です。</p><div class="pair"><figure><figcaption>iOS 実画面</figcaption><a href="reference-ios-catalog63/93FEBB65-CF72-49F9-808F-B3402CC4A88F.png"><img loading="lazy" src="reference-ios-catalog63/93FEBB65-CF72-49F9-808F-B3402CC4A88F.png" alt="L01 iOS 実画面"></a></figure><figure><figcaption>Android 修正中</figcaption><a href="iteration-67/android/L01.png"><img loading="lazy" src="iteration-67/android/L01.png" alt="L01 Android 修正中"></a></figure></div></section><section><h2>L02 — 差異確認・修正中</h2><p>新規作成を設定・プレビュー・名前・作成の順へ変更。実操作で作成後の保存エディタ移行を確認。</p><div class="pair"><figure><figcaption>iOS 実画面</figcaption><a href="reference-ios-create-complete/D7896DA2-05A0-4FF6-9F51-9D6A1F669D60.png"><img loading="lazy" src="reference-ios-create-complete/D7896DA2-05A0-4FF6-9F51-9D6A1F669D60.png" alt="L02 iOS 実画面"></a></figure><figure><figcaption>Android 修正中</figcaption><a href="iteration-74/android/L02.png"><img loading="lazy" src="iteration-74/android/L02.png" alt="L02 Android 修正中"></a></figure></div></section><section><h2>L03 — 差異確認・修正中</h2><p>画面の参照あり。見た目・操作の一致は検証継続中です。</p><div class="pair"><figure><figcaption>iOS 実画面</figcaption><a href="reference-ios-layout/734B3630-D23E-43AE-9F06-0D9DD6C88AA1.png"><img loading="lazy" src="reference-ios-layout/734B3630-D23E-43AE-9F06-0D9DD6C88AA1.png" alt="L03 iOS 実画面"></a></figure><figure><figcaption>Android 修正中</figcaption><a href="iteration-12/android/L03.png"><img loading="lazy" src="iteration-12/android/L03.png" alt="L03 Android 修正中"></a></figure></div></section><section><h2>L04 — 差異確認・修正中</h2><p>同じトランジションサンプルで再撮影。4ページの横スワイプを確認。余白・ステータス表示は差が残っています。</p><div class="pair"><figure><figcaption>iOS 実画面</figcaption><a href="reference-ios-gallery-complete/6A556226-838C-4247-BFC6-6CE07F647084.png"><img loading="lazy" src="reference-ios-gallery-complete/6A556226-838C-4247-BFC6-6CE07F647084.png" alt="L04 iOS 実画面"></a></figure><figure><figcaption>Android 修正中</figcaption><a href="iteration-60/android/L04.png"><img loading="lazy" src="iteration-60/android/L04.png" alt="L04 Android 修正中"></a></figure></div></section><section><h2>L05 — 差異確認・修正中</h2><p>画面の参照あり。見た目・操作の一致は検証継続中です。</p><div class="pair"><figure><figcaption>iOS 実画面</figcaption><a href="reference-ios-layout/F84DC1DC-4BF5-4682-AF2F-55D18E9CEBA4.png"><img loading="lazy" src="reference-ios-layout/F84DC1DC-4BF5-4682-AF2F-55D18E9CEBA4.png" alt="L05 iOS 実画面"></a></figure><figure><figcaption>Android 修正中</figcaption><a href="iteration-12/android/L05.png"><img loading="lazy" src="iteration-12/android/L05.png" alt="L05 Android 修正中"></a></figure></div></section><section><h2>L06 — 差異確認・修正中</h2><p>画面の参照あり。見た目・操作の一致は検証継続中です。</p><div class="pair"><figure><figcaption>iOS 実画面</figcaption><a href="reference-ios-color-picker/E1C9AAF8-4C40-443D-BDA3-351968089142.png"><img loading="lazy" src="reference-ios-color-picker/E1C9AAF8-4C40-443D-BDA3-351968089142.png" alt="L06 iOS 実画面"></a></figure><figure><figcaption>Android 修正中</figcaption><a href="iteration-58/android/L06.png"><img loading="lazy" src="iteration-58/android/L06.png" alt="L06 Android 修正中"></a></figure></div></section><section><h2>L07 — 差異確認・修正中</h2><p>画面の参照あり。見た目・操作の一致は検証継続中です。</p><div class="pair"><figure><figcaption>iOS 実画面</figcaption><a href="reference-ios-layout/8F089573-D2B9-4F90-BCEF-507507195352.png"><img loading="lazy" src="reference-ios-layout/8F089573-D2B9-4F90-BCEF-507507195352.png" alt="L07 iOS 実画面"></a></figure><figure><figcaption>Android 修正中</figcaption><a href="iteration-12/android/L07.png"><img loading="lazy" src="iteration-12/android/L07.png" alt="L07 Android 修正中"></a></figure></div></section><section><h2>I01 — 差異確認・修正中</h2><p>画面の参照あり。見た目・操作の一致は検証継続中です。</p><div class="pair"><figure><figcaption>iOS 実画面</figcaption><a href="reference-ios-layout/14E70FF7-A801-4730-B8D4-47193CA5B8F8.png"><img loading="lazy" src="reference-ios-layout/14E70FF7-A801-4730-B8D4-47193CA5B8F8.png" alt="I01 iOS 実画面"></a></figure><figure><figcaption>Android 修正中</figcaption><a href="iteration-12/android/I01.png"><img loading="lazy" src="iteration-12/android/I01.png" alt="I01 Android 修正中"></a></figure></div></section><section><h2>I02 — 差異確認・修正中</h2><p>画面の参照あり。見た目・操作の一致は検証継続中です。</p><div class="pair"><figure><figcaption>iOS 実画面</figcaption><a href="reference-ios-list/70B33A24-A254-4538-9E49-86DC48DC940E.png"><img loading="lazy" src="reference-ios-list/70B33A24-A254-4538-9E49-86DC48DC940E.png" alt="I02 iOS 実画面"></a></figure><figure><figcaption>Android 修正中</figcaption><a href="iteration-12/android/I02.png"><img loading="lazy" src="iteration-12/android/I02.png" alt="I02 Android 修正中"></a></figure></div></section><section><h2>I03 — 差異確認・修正中</h2><p>画面の参照あり。見た目・操作の一致は検証継続中です。</p><div class="pair"><figure><figcaption>iOS 実画面</figcaption><a href="reference-ios-list/7D199B90-9351-4AAD-9F41-23308968D58E.png"><img loading="lazy" src="reference-ios-list/7D199B90-9351-4AAD-9F41-23308968D58E.png" alt="I03 iOS 実画面"></a></figure><figure><figcaption>Android 修正中</figcaption><a href="iteration-12/android/I03.png"><img loading="lazy" src="iteration-12/android/I03.png" alt="I03 Android 修正中"></a></figure></div></section><section><h2>I04 — 差異確認・修正中</h2><p>画面の参照あり。見た目・操作の一致は検証継続中です。</p><div class="pair"><figure><figcaption>iOS 実画面</figcaption><a href="reference-ios-list/272D0FDE-C62C-4BA6-B449-F864126E1B69.png"><img loading="lazy" src="reference-ios-list/272D0FDE-C62C-4BA6-B449-F864126E1B69.png" alt="I04 iOS 実画面"></a></figure><figure><figcaption>Android 修正中</figcaption><a href="iteration-12/android/I04.png"><img loading="lazy" src="iteration-12/android/I04.png" alt="I04 Android 修正中"></a></figure></div></section><section><h2>I05 — 比較未成立</h2><p>画面・状態を確認したiOS参照を準備中です。一致・対応済みとは判定していません。</p></section><section><h2>アイコン拡大比較</h2><p>各画像の上段がiOS、下段がAndroid。同じ1206px幅のキャプチャーから同じ範囲を切り出し。背景素材の差は未解消です。</p><img src="icon-details/ellipsis.png" alt="右上3点の比較"><img style="max-width:360px" src="icon-details/save.png" alt="保存ボタンの比較"></section></html>
